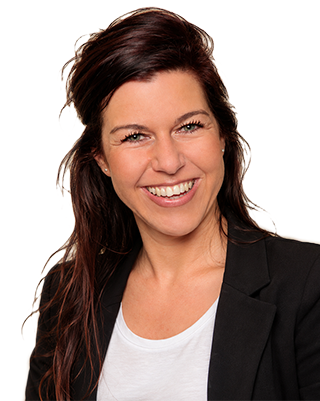
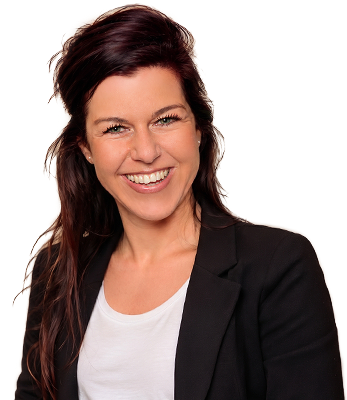
rework home stage on desktop: viewport-fitting photo, vertically centered text, fluid headline

diff --git a/css/style.css b/css/style.css
@@ -8425,3 +8425,41 @@ body .btn-twentySix:hover:after {top: 0; left: 0;}
         aspect-ratio: 16 / 9;
     }
 }
+
+/* Startseite: Bühne (Desktop). Hero-Höhe folgt der Fensterhöhe (min. 560 px, max. 900 px).
+   Das Foto sitzt bündig am unteren Rand der Bühne und ragt nie aus dem sichtbaren Bereich,
+   der Text ist vertikal zur Bühne zentriert. */
+@media (min-width: 992px) {
+    .home-stage.home-stage {
+        --stage-h: clamp(560px, 100svh, 900px);
+        --stage-header: 110px;
+        padding-top: var(--stage-header) !important;
+    }
+    .home-stage > .container > .row {
+        min-height: calc(var(--stage-h) - var(--stage-header));
+        align-items: stretch;
+    }
+    .home-stage-text {
+        align-self: center;
+        padding-bottom: 30px;
+    }
+    .home-stage-text h1 {
+        font-size: clamp(2.25rem, 3.8vw, 4rem);
+    }
+    .home-stage-text p.text-lg {
+        padding-bottom: 0;
+    }
+    .home-stage-photo {
+        align-self: flex-end;
+    }
+    .home-stage-photo img {
+        display: block;
+        width: auto;
+        height: auto;
+        max-width: 100%;
+        max-height: calc(var(--stage-h) - var(--stage-header) - 20px);
+        margin-left: auto;
+        object-fit: contain;
+        object-position: right bottom;
+    }
+}

diff --git a/index.php b/index.php
@@ -9,25 +9,28 @@ include($_SERVER["DOCUMENT_ROOT"] . "/includes/header.php");
     TITLE
 =====================================================
 -->
-<div class="position-relative pt-200 lg-pt-120">
+<div class="home-stage position-relative pt-200 lg-pt-120">
     <div class="container">
         <div class="row">
-            <div class="col-xxl-6 col-xl-5 col-lg-6 col-md-6">
+            <div class="home-stage-text col-xxl-6 col-xl-5 col-lg-6 col-md-6">
                 <div class="sm-mb-10 md-mb-60"> <?php echo generate_breadcrumb(); ?>
-                    <h2 class="main-title mb-20">
-                        <span class="position-relative d-inline-block">Lisa Yashodhara Haller</span> forscht, berät und bildet rund um die Themen Sozialpolitik, Elternschaft und Geschlecht.
-                    </h2>
+                    <h1 class="main-title mb-20">
+                        <span class="position-relative d-inline-block">Prof. Dr. Lisa Yashodhara Haller</span>
+                    </h1>
                     <picture>
                         <source srcset="/images/home/img_lisa_haller_xs.webp" type="image/webp">
                         <source srcset="/images/home/img_lisa_haller_xs.png" type="image/png">
                         <img class="d-block d-lg-none img-responsive mb-3 start-50" src="/images/home/img_lisa_haller_xs.png" alt="Porträt von Prof. Dr. Lisa Yashodhara Haller" width="320" height="400" fetchpriority="high" loading="eager">
                     </picture>
                     <p class="text-lg pb-60 lg-pb-10">
-                        Einprägsam veranschaulicht sie Vermittlungszusammenhänge zwischen der staatlichen Steuerung unserer kapitalistischen Wirtschaft und vermeintlich ganz privaten Entscheidungen des Alltags: sozialstaatliche Steuerungsabsichten können so, in den einzelnen Subjekten, deren Handlungen, Einstellungen und der Ausgestaltung ihres Lebens wiederentdeckt und als gewordene und veränderbare Resultate politischer Steuerung entmystifiziert werden.
+                        Lisa Yashodhara Haller forscht, lehrt und berät zu Sozialpolitik, der Ökonomie sozialer Dienste sowie zu Familien- und Geschlechterverhältnissen.
+                    </p>
+                    <p class="text-lg pb-60 lg-pb-10">
+                        Sie ist Professorin für Sozialpolitik, Ökonomie sozialer Einrichtungen und sozialer Dienste an der Hochschule Neubrandenburg.
                     </p>
                 </div>
             </div>
-            <div class="col-xxl-6 col-xl-6 col-lg-5 col-md-6 col-sm-10 ms-auto d-none d-lg-block">
+            <div class="home-stage-photo col-xxl-6 col-xl-6 col-lg-5 col-md-6 col-sm-10 ms-auto d-none d-lg-block">
                 <picture>
                     <source srcset="/images/home/img_lisa_haller.webp" type="image/webp">
                     <source srcset="/images/home/img_lisa_haller.avif" type="image/avif">
@@ -143,9 +146,9 @@ include($_SERVER["DOCUMENT_ROOT"] . "/includes/header.php");
             <div class="col-md-6 order-md-first d-none d-lg-block">
                 <div class="img-meta d-inline-block position-relative ps-3 ps-lg-5 pb-50 md-mt-50 sm-mt-80">
                     <picture>
-                        <source srcset="/images/home/about_lisa_501x620_sw.webp" type="image/webp">
-                        <source srcset="/images/home/about_lisa_501x620_sw.jpg" type="image/jpeg">
-                        <img src="/images/home/about_lisa_501x620_sw.jpg" alt="Porträt von Prof. Dr. Lisa Yashodhara Haller" class="img-responsive" loading="lazy" width="501" height="620">
+                        <source srcset="/images/home/img_lisa_haller_500x520.webp" type="image/webp">
+                        <source srcset="/images/home/img_lisa_haller_500x520.png" type="image/png">
+                        <img src="/images/home/img_lisa_haller_500x520.png" alt="Porträt von Prof. Dr. Lisa Yashodhara Haller" class="img-responsive" loading="lazy" width="500" height="620">
                     </picture>
                 </div>
             </div>
@@ -164,26 +167,100 @@ include($_SERVER["DOCUMENT_ROOT"] . "/includes/header.php");
         <div class="row align-items-center">
             <div class="col-xl-7 col-md-8">
                 <div class="title-style-one mb-30 mt-30">
+                    <div class="sc-title">
+                        15. November 2026
+                    </div>
                     <h2 class="main-title">
-                        Kommentar zur Abstammungsrechtsreform
+                        Neue Veröffentlichung: Geld, Geschlecht und soziale Sicherung
                     </h2>
                 </div>
                 <p class="fs-20 mb-50 md-mb-30">
-                    Erfahren Sie, was die neue Abstammungsrechtsreform bringt. Lisa Yashodhara Haller kommentiert die neuesten Entwicklungen im Freitag+.
+                    Im aktuellen Schwerpunktheft des Deutschen Vereins zeigt Lisa Yashodhara Haller, wie familienpolitische Entscheidungen seit 2006 die Verteilung von Sorgearbeit und die finanzielle Absicherung prägen – vom Elterngeld über die Kindergrundsicherung bis zur Rente.
                 </p>
+                <div class="text-start">
+                    <a href="https://www.deutscher-verein.de/shop/produktdetail/archiv-42026-20-jahre-siebter-familienbericht-familienpolitik-auf-dem-pruefstand/" class="btn-one fs-18 fw-500" target="_blank" rel="nofollow">
+                        Zur Veröffentlichung
+                    </a>
+                </div>
             </div>
             <div class="col-xl-4 col-md-4 ms-auto mb-30">
-                <a href="https://www.freitag.de/autoren/lisa-yashodhara-haller/abstammungsrecht-will-elternschaft-neu-regeln/cc2233bf-b79d-46b6-9a31-acf4af04b2cc" target="_blank" rel="nofollow">
-                    <picture>
-                        <source srcset="/images/aktuelles/abstammungsrecht-will-elternschaft-neu-regeln.webp" type="image/webp">
-                        <source srcset="/images/aktuelles/abstammungsrecht-will-elternschaft-neu-regeln.jpg" type="image/jpg">
-                        <img src="/images/aktuelles/abstammungsrecht-will-elternschaft-neu-regeln.jpg" alt="Abstammungsrecht will Elternschaft neu regeln" width="425" height="239" loading="lazy">
-                    </picture>
+                <a href="https://www.deutscher-verein.de/shop/produktdetail/archiv-42026-20-jahre-siebter-familienbericht-familienpolitik-auf-dem-pruefstand/" target="_blank" rel="nofollow">
+                    <img src="/images/publications/20-jahre-siebter-familienbericht-familienpolitik-auf-dem-pruefstand.jpg" alt="Cover: Archiv für Wissenschaft und Praxis der Sozialen Arbeit, Heft 4/2026" class="img-responsive" width="425" height="239" loading="lazy">
                 </a>
             </div>
-            <div class="text-start">
-                <a href="https://www.freitag.de/autoren/lisa-yashodhara-haller/abstammungsrecht-will-elternschaft-neu-regeln/cc2233bf-b79d-46b6-9a31-acf4af04b2cc" class="btn-one fs-18 fw-500" target="_blank">
-                    Zum Artikel
+        </div>
+        <div class="row align-items-center flex-md-row-reverse mt-80 lg-mt-50">
+            <div class="col-xl-7 col-md-8">
+                <div class="title-style-one mb-30 mt-30">
+                    <div class="sc-title">
+                        22. Juli 2026
+                    </div>
+                    <h2 class="main-title">
+                        Neue Veröffentlichung: Wenn Recht Mütter adressiert
+                    </h2>
+                </div>
+                <p class="fs-20 mb-50 md-mb-30">
+                    Der Beitrag in Sozial Extra untersucht, wie geschlechtsneutral formuliertes Recht in elternbezogenen Beratungskontexten geschlechtsspezifisch umgesetzt wird und welche Bedeutung dies für die Soziale Arbeit hat.
+                </p>
+                <div class="text-start">
+                    <a href="https://doi.org/10.1007/s12054-026-00890-9" class="btn-one fs-18 fw-500" target="_blank" rel="nofollow">
+                        Zur Veröffentlichung
+                    </a>
+                </div>
+            </div>
+            <div class="col-xl-4 col-md-4 me-auto mb-30">
+                <a href="https://doi.org/10.1007/s12054-026-00890-9" target="_blank" rel="nofollow">
+                    <img src="/images/publications/wenn-recht-muetter-adressiert.jpg" alt="Cover: Sozial Extra" class="img-responsive" width="425" height="239" loading="lazy">
+                </a>
+            </div>
+        </div>
+        <div class="row align-items-center mt-80 lg-mt-50">
+            <div class="col-xl-7 col-md-8">
+                <div class="title-style-one mb-30 mt-30">
+                    <div class="sc-title">
+                        26. Mai 2026
+                    </div>
+                    <h2 class="main-title">
+                        Radiogespräch: Familienpolitik und sinkende Geburtenzahlen
+                    </h2>
+                </div>
+                <p class="fs-20 mb-50 md-mb-30">
+                    Im SWR Kultur Forum „Babyflaute statt Kindersegen – Warum uns der Nachwuchs ausgeht“ diskutiert Lisa Yashodhara Haller mit Matthias Dantlgraber und Katharina Spieß über die Ursachen sinkender Geburtenzahlen und die Möglichkeiten und Grenzen familienpolitischer Maßnahmen. Moderation: Marion Theis.
+                </p>
+                <div class="text-start">
+                    <a href="https://www.ardsounds.de/episode/urn:ard:episode:d8086fa3e4980ca7/" class="btn-one fs-18 fw-500" target="_blank" rel="nofollow">
+                        Zum Radiogespräch
+                    </a>
+                </div>
+            </div>
+            <div class="col-xl-4 col-md-4 ms-auto mb-30">
+                <a href="https://www.ardsounds.de/episode/urn:ard:episode:d8086fa3e4980ca7/" target="_blank" rel="nofollow">
+                    <img src="/images/media/babyflaute_statt_kindersegen.jpg" alt="Babyflaute statt Kindersegen" class="img-responsive" width="425" height="239" loading="lazy">
+                </a>
+            </div>
+        </div>
+        <div class="row align-items-center flex-md-row-reverse mt-80 lg-mt-50">
+            <div class="col-xl-7 col-md-8">
+                <div class="title-style-one mb-30 mt-30">
+                    <div class="sc-title">
+                        11. März 2026
+                    </div>
+                    <h2 class="main-title">
+                        Neu erschienen: Familie, Sorge und Recht
+                    </h2>
+                </div>
+                <p class="fs-20 mb-50 md-mb-30">
+                    Der gemeinsam herausgegebene Sammelband untersucht die Wechselverhältnisse von familialen Lebensformen, Sorge und Recht aus theoretischen und empirischen Perspektiven. Das Buch ist im Open Access frei zugänglich.
+                </p>
+                <div class="text-start">
+                    <a href="https://doi.org/10.14361/9783839473696" class="btn-one fs-18 fw-500" target="_blank" rel="nofollow">
+                        Zum Buch
+                    </a>
+                </div>
+            </div>
+            <div class="col-xl-4 col-md-4 me-auto mb-30">
+                <a href="https://doi.org/10.14361/9783839473696" target="_blank" rel="nofollow">
+                    <img src="/images/publications/familie_sorge_und_recht_300x270.jpg" alt="Buchcover: Familie, Sorge und Recht" class="img-responsive" width="425" height="239" loading="lazy">
                 </a>
             </div>
         </div>

diff --git a/about/index.php b/about/index.php
@@ -26,7 +26,7 @@ include($_SERVER["DOCUMENT_ROOT"] . "/includes/header.php");
             </div>
             <div class="col-xl-6 col-lg-5 col-md-8 col-sm-10 ms-auto">
                 <div class="img-meta-two d-inline-block position-relative pb-50">
-                    <img src="/images/about/lisa_501x620_sw.jpg" alt="" class="rounded-3" loading="lazy">
+                    <img src="/images/about/img_lisa_500x620.webp" alt="Prof. Dr. Lisa Yashodhara Haller" class="rounded-3" loading="lazy">
                     <img src="/images/shape/shape_16.svg" alt="" class="shapes shape-two" style="animation: none;">
                 </div>
             </div>
